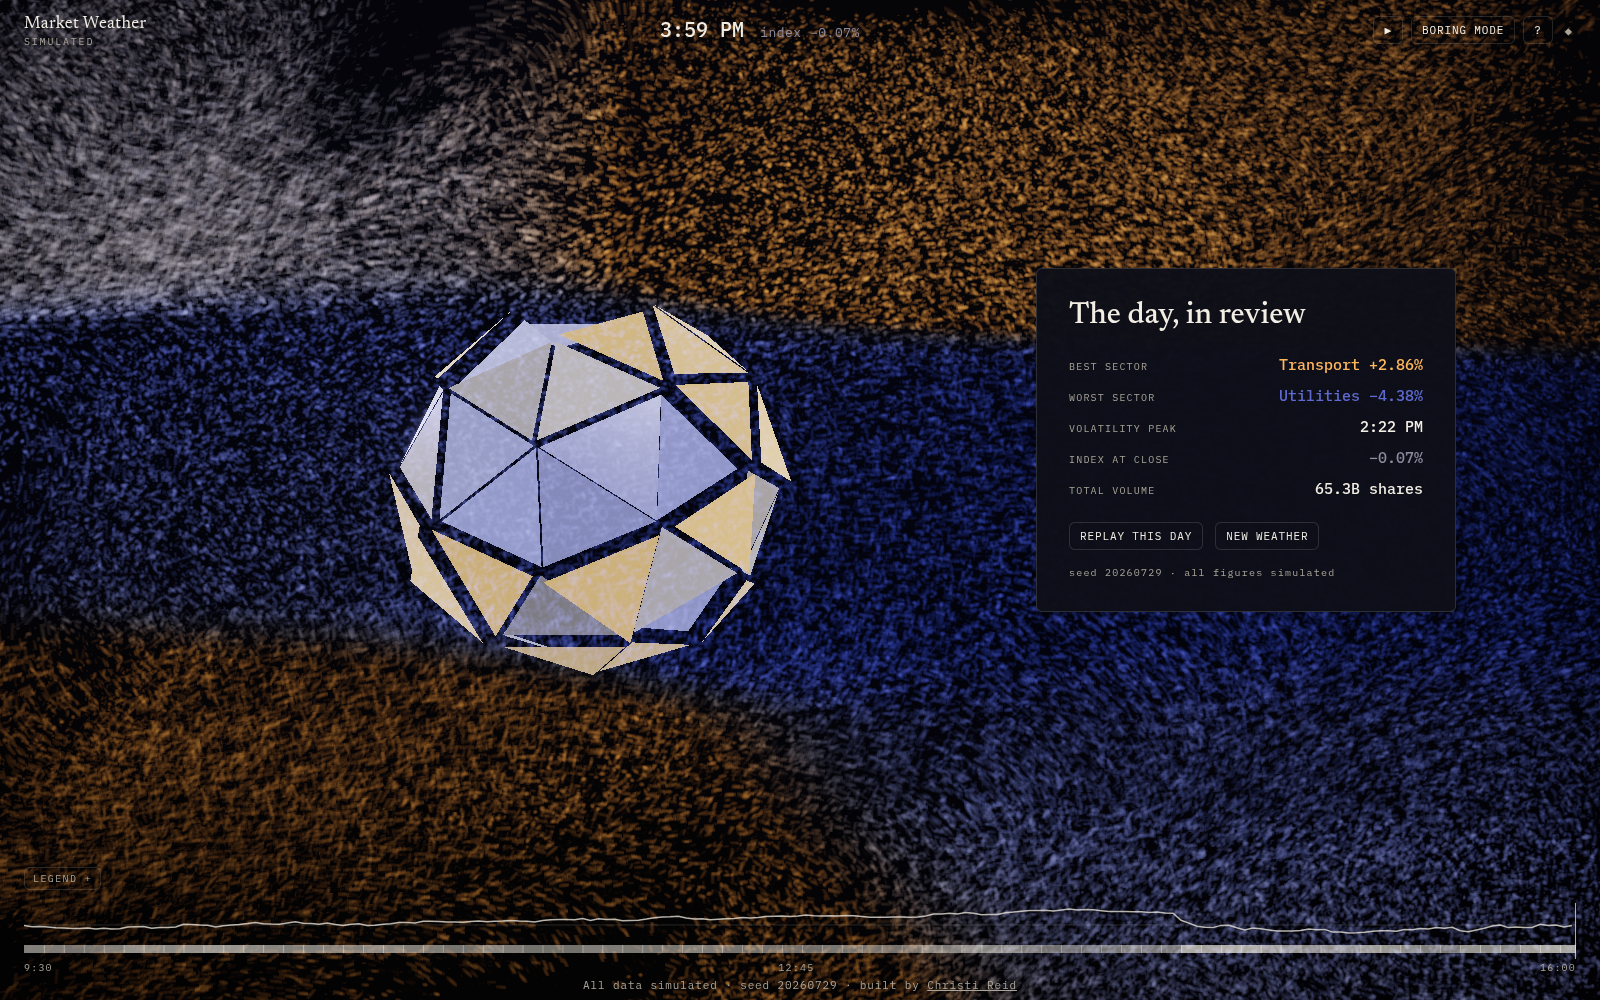
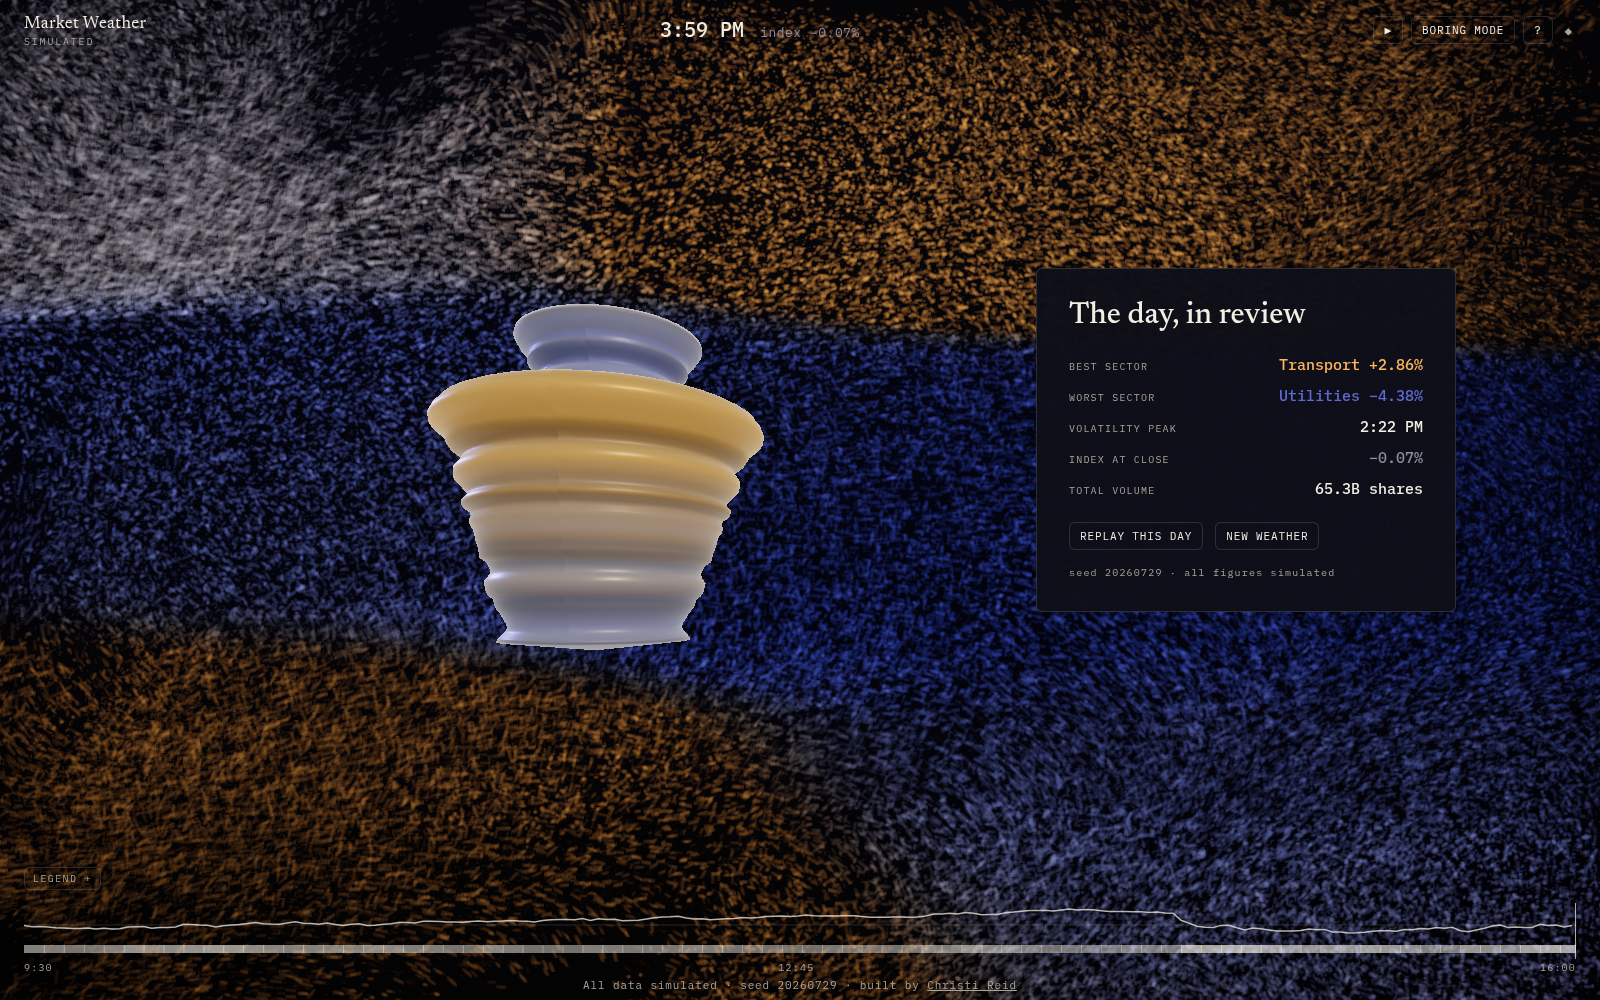
Geometry pass (D-017): the day, turned — lathe of the index path
- LatheGeometry profile = smoothed index path revolved: drawdown chokes the
  silhouette, rally swells it; time runs foot->lip; bands glazed per minute
- smooth turned shading; deeper glaze; grain 3%->1.8% (speckle on glaze)
- atmosphere moved to far-plane depth with depth testing so the vessel
  occludes wind strokes (transparent-pass draw-order bug found by capture)
- ember/fresnel shader carries over via aFacet band phase
- storm/field verified unaffected; smoke green; axe clean x2; 66 tests

Changed region(s): [[0.25, 0.279, 0.5, 0.682]]

diff --git a/apps/weather/src/scene/DayStone.tsx b/apps/weather/src/scene/DayStone.tsx
@@ -1,17 +1,20 @@
 /**
- * Act IV — the day stone. When the market closes, the whole day condenses
- * into one faceted object (the skill-recipe "one strong 3D object" moment):
+ * Act IV — the day, turned. When the market closes, the day condenses into a
+ * vessel whose GEOMETRY is the data (D-015/D-017):
  *
- *   facet displacement  ← that sector's |return since open| at the close
- *   facet color         ← the same return through the OKLab temperature ramp
- *   surface roughness   ← the day's realized vol (vs the canonical reference):
- *                          stormy days cut rougher stones
- *   rotation / bob      ← presentation transform only (virtual-clocked,
- *                          still under prefers-reduced-motion)
+ *   lathe profile   ← the index path itself, revolved — a drawdown is a
+ *                     literal choke in the silhouette, a rally a swelling
+ *   band color      ← index return since open at that minute (OKLab ramp),
+ *                     open at the foot, close at the lip
+ *   surface rough.  ← the day's realized vol (stormy days turn rougher)
+ *   ember shimmer   ← D-016 shader extension, unchanged (vColor + aFacet)
+ *   rotation / bob  ← presentation transform, virtual-clocked, still under
+ *                     prefers-reduced-motion
  *
- * Real geometry (displaced icosahedron, flat-shaded), PBR material, perspective
- * camera, key + hemisphere + rim lights. Every attribute names its channel
- * (D-015) — a different stone for every seed.
+ * Real turned geometry (LatheGeometry from a smoothed 72-point resample of
+ * the 390-minute path, flat-shaded 44-segment revolve), PBR + injected
+ * shaders, perspective camera, key + hemisphere + rim lights. Every seed
+ * turns a different vessel.
  */
 import { useEffect, useMemo } from 'react';
 import { useFrame, useThree } from '@react-three/fiber';
@@ -21,55 +24,67 @@ import { dayFor, useWeather } from '../state/store';
 import { virtualNow } from '../state/clock';
 import { sampleRamp, returnToT } from './ramp';
 
-function buildStoneGeometry(day: MarketDay): THREE.BufferGeometry {
-  const base = new THREE.IcosahedronGeometry(1, 1).toNonIndexed();
-  const pos = base.getAttribute('position');
-  const faceCount = pos.count / 3;
+const PROFILE_POINTS = 72;
+const LATHE_SEGMENTS = 44;
+
+function buildVesselGeometry(day: MarketDay): THREE.BufferGeometry {
+  const path = day.indexPath(); // 390 per-minute index values
+
+  // Resample the day to the profile resolution with a light moving average —
+  // the lathe wants a turnable curve, not minute noise.
+  const resampled: number[] = [];
+  for (let i = 0; i < PROFILE_POINTS; i++) {
+    const center = (i / (PROFILE_POINTS - 1)) * 389;
+    let sum = 0;
+    let n = 0;
+    for (let k = -6; k <= 6; k++) {
+      const t = Math.round(center + k);
+      if (t >= 0 && t <= 389) {
+        sum += path[t] ?? 0;
+        n++;
+      }
+    }
+    resampled.push(sum / Math.max(1, n));
+  }
+  const lo = Math.min(...resampled);
+  const hi = Math.max(...resampled);
+  const span = Math.max(1e-6, hi - lo);
+
+  // Profile: radius carries the index (a drawdown chokes the vessel, a rally
+  // swells it); height carries time, open at the foot → close at the lip.
+  const profile: THREE.Vector2[] = [new THREE.Vector2(0.04, -1.06)];
+  for (let i = 0; i < PROFILE_POINTS; i++) {
+    const r = 0.44 + (((resampled[i] ?? 0) - lo) / span) * 0.62;
+    const y = -1 + (i / (PROFILE_POINTS - 1)) * 2;
+    profile.push(new THREE.Vector2(r, y));
+  }
+  profile.push(new THREE.Vector2(0.04, 1.06)); // close the lip
+
+  const geo = new THREE.LatheGeometry(profile, LATHE_SEGMENTS);
+
+  // Band colors: each profile row is its minute's index return through the
+  // ramp. LatheGeometry UV.y runs along the profile → recover the minute.
+  const pos = geo.getAttribute('position');
+  const uv = geo.getAttribute('uv');
   const colors = new Float32Array(pos.count * 3);
-  const close = day.at(389);
-
-  const a = new THREE.Vector3();
-  const b = new THREE.Vector3();
-  const c = new THREE.Vector3();
-  const n = new THREE.Vector3();
-
-  const centroid = new THREE.Vector3();
-  for (let f = 0; f < faceCount; f++) {
-    const sector = f % 11;
-    const ret = close.sectors[sector]?.returnSinceOpen ?? 0;
-    // Displacement is hairline cleavage, not shrapnel: winners' facets sit a
-    // breath proud, losers' a breath deep — the crack lines catch the rim
-    // light and read as cut mineral.
-    const disp = Math.max(-0.05, Math.min(0.08, ret * 2.6));
-    a.fromBufferAttribute(pos, f * 3);
-    b.fromBufferAttribute(pos, f * 3 + 1);
-    c.fromBufferAttribute(pos, f * 3 + 2);
-    centroid.copy(a).add(b).add(c).divideScalar(3);
-    n.copy(centroid).normalize().multiplyScalar(disp);
-    for (let v = 0; v < 3; v++) {
-      const i = f * 3 + v;
-      // Slight inset toward the facet centroid keeps the silhouette closed.
-      const px = pos.getX(i) + (centroid.x - pos.getX(i)) * 0.06 + n.x;
-      const py = pos.getY(i) + (centroid.y - pos.getY(i)) * 0.06 + n.y;
-      const pz = pos.getZ(i) + (centroid.z - pos.getZ(i)) * 0.06 + n.z;
-      pos.setXYZ(i, px, py, pz);
-    }
-    const [r, g, bl] = sampleRamp(returnToT(ret));
-    for (let v = 0; v < 3; v++) {
-      colors[(f * 3 + v) * 3] = r;
-      colors[(f * 3 + v) * 3 + 1] = g;
-      colors[(f * 3 + v) * 3 + 2] = bl;
-    }
+  const bandIds = new Float32Array(pos.count);
+  const rows = profile.length;
+  for (let i = 0; i < pos.count; i++) {
+    const v = uv.getY(i); // 0 at foot → 1 at lip
+    const row = Math.round(v * (rows - 1));
+    const pi = Math.max(0, Math.min(PROFILE_POINTS - 1, row - 1));
+    const minute = Math.round((pi / (PROFILE_POINTS - 1)) * 389);
+    const [r, g, b] = sampleRamp(returnToT(day.at(minute).index));
+    // Deepen toward a glaze — the ember shader re-lights it from within.
+    colors[i * 3] = Math.pow(r * 0.82, 1.25);
+    colors[i * 3 + 1] = Math.pow(g * 0.82, 1.25);
+    colors[i * 3 + 2] = Math.pow(b * 0.82, 1.25);
+    bandIds[i] = pi / (PROFILE_POINTS - 1); // ember shimmer phase per band
   }
-  base.setAttribute('color', new THREE.BufferAttribute(colors, 3));
-  // Per-facet phase for the ember shimmer (custom shader injection below).
-  const facetIds = new Float32Array(pos.count);
-  for (let f = 0; f < faceCount; f++) {
-    for (let v = 0; v < 3; v++) facetIds[f * 3 + v] = f / faceCount;
-  }
-  base.setAttribute('aFacet', new THREE.BufferAttribute(facetIds, 1));
-  base.computeVertexNormals();
-  return base;
+  geo.setAttribute('color', new THREE.BufferAttribute(colors, 3));
+  geo.setAttribute('aFacet', new THREE.BufferAttribute(bandIds, 1));
+  geo.computeVertexNormals();
+  return geo;
 }
 
 export function DayStone(): React.JSX.Element | null {
@@ -82,9 +97,9 @@ export function DayStone(): React.JSX.Element | null {
   // it floats above the centered panel.
   const narrow = size.width / Math.max(1, size.height) < 1.05;
   const basePos: [number, number, number] = narrow ? [0, 2.05, 0] : [-1.5, 0.1, 0];
-  const scale = narrow ? 0.72 : 1.35;
+  const scale = narrow ? 0.68 : 1.15;
 
-  const geometry = useMemo(() => buildStoneGeometry(day), [day]);
+  const geometry = useMemo(() => buildVesselGeometry(day), [day]);
   useEffect(() => () => geometry.dispose(), [geometry]);
 
   const material = useMemo(() => {
@@ -92,7 +107,7 @@ export function DayStone(): React.JSX.Element | null {
     const peak = Math.min(1.2, classifyDay(day).peakVol);
     const mat = new THREE.MeshStandardMaterial({
       vertexColors: true,
-      flatShading: true,
+      flatShading: false, // turned surface — the silhouette carries the form
       metalness: 0.22,
       roughness: 0.58 - 0.26 * Math.min(1, peak),
       emissive: new THREE.Color('#11131F'),
@@ -165,8 +180,8 @@ export function DayStone(): React.JSX.Element | null {
   return (
     <group>
       {/* Lights live with the stone so the field pays nothing for them. */}
-      <hemisphereLight args={["#F2EEE4", "#0B0C14", 0.35]} />
-      <directionalLight position={[3.4, 4.2, 4.8]} intensity={0.95} color="#FFF4E2" />
+      <hemisphereLight args={["#F2EEE4", "#0B0C14", 0.28]} />
+      <directionalLight position={[3.4, 4.2, 4.8]} intensity={0.75} color="#FFF4E2" />
       <directionalLight position={[-4.2, 1.2, -2.8]} intensity={1.1} color="#7A86E8" />
       <mesh
         name="day-stone"

diff --git a/apps/weather/src/scene/Effects.tsx b/apps/weather/src/scene/Effects.tsx
@@ -39,7 +39,7 @@ export function Effects(): React.JSX.Element | null {
       <Bloom intensity={0.55} luminanceThreshold={0.72} luminanceSmoothing={0.18} mipmapBlur />
       <ToneMapping mode={ToneMappingMode.ACES_FILMIC} />
       <Vignette eskil={false} offset={0.18} darkness={0.42} />
-      <Noise premultiply blendFunction={BlendFunction.ADD} opacity={0.03} />
+      <Noise premultiply blendFunction={BlendFunction.ADD} opacity={0.018} />
     </EffectComposer>
   );
 }

diff --git a/apps/weather/src/scene/particles/shaders.ts b/apps/weather/src/scene/particles/shaders.ts
@@ -258,7 +258,9 @@ void main() {
   vBright *= 1.0 + 0.25 * uStormEmphasis * vol;
 
   vec2 view = (p - uView.yz) * uView.x + 0.5;
-  gl_Position = vec4(view * 2.0 - 1.0, 0.0, 1.0);
+  // Atmosphere sits at the far plane: the only depth-writing object (Act IV's
+  // vessel) occludes it, while the sky (no depth ops) stays beneath.
+  gl_Position = vec4(view * 2.0 - 1.0, 0.9999, 1.0);
   gl_PointSize = size;
 }
 `;

diff --git a/apps/weather/src/scene/Particles.tsx b/apps/weather/src/scene/Particles.tsx
@@ -82,7 +82,8 @@ export function Particles(): React.JSX.Element {
         vertexShader: RENDER_VERT,
         fragmentShader: RENDER_FRAG,
         transparent: true,
-        depthTest: false,
+        // Test (never write) depth so Act IV's vessel occludes the strokes.
+        depthTest: true,
         depthWrite: false,
         blending: THREE.AdditiveBlending,
         uniforms: {

diff --git a/README.md b/README.md
@@ -100,10 +100,13 @@ and building both. Boring Mode doubles as the screen-reader surface and the no-W
 
 ---
 
-## The day ends
+## The day ends — and is turned
 
-At 4:00 PM the field freezes and the day typesets itself. **Replay** runs the same seed again;
-**new weather** draws a fresh non-flat day — every day shareable by URL (`?seed=`).
+At 4:00 PM the field stills, and the day condenses into a **vessel turned from its own chart**:
+the index path revolved on a lathe — the 2:20 drawdown is a literal choke in the silhouette,
+the recovery flares the lip, and the bands are glazed by each minute's return. Stormy days turn
+rougher, harder-smoldering vessels. **Replay** runs the same seed; **new weather** turns a new
+one — every day shareable by URL (`?seed=`).
 
 ![Act IV — the day in review](docs/screenshots/loop-b/review-high-desktop.png)
 
@@ -144,7 +147,7 @@ velocity, length growing with local speed, comet-shaded so the bright head shows
 the sector is moving even in a paused frame — calm air is fine grain, a squall is combed into
 long ragged filaments. Size and gate come from volume, color from the OKLab temperature ramp
 LUT, depth-layered parallax from three drift layers — all under a strict post budget: bloom
-(high threshold), ACES, 3% grain, vignette. Scrubs re-seed positions from
+(high threshold), ACES, fine grain, vignette. Scrubs re-seed positions from
 `hash(seed, minute)` and warm up 90 fixed steps, so minute *t* is the same sky no matter how
 you got there. The whole day runs on one injected virtual clock — no wall-clock reads
 anywhere a capture could see.

diff --git a/docs/decisions-log.md b/docs/decisions-log.md
@@ -187,3 +187,20 @@ the facet's own return color; ember strength = day vol (stormy stones smolder
 harder); rim = presentation lighting. Shimmer freezes under reduced motion.
 Diffuse lighting was rebalanced downward so the internal glow, not the lamps,
 carries the color.
+
+### D-017 · The day, turned (vessel geometry)
+
+The Act IV object's geometry is now derived from the data rather than
+decorated by it: a LatheGeometry whose profile IS the index path — a smoothed
+72-point resample revolved in 44 segments, radius carrying the index (a
+drawdown is a literal choke in the silhouette, a rally a swelling), height
+carrying time from open (foot) to close (lip). Band vertex colors are each
+minute's index return through the shared ramp; the D-016 ember/fresnel shader
+carries over unchanged (aFacet reused as band phase). Two finish passes:
+smooth shading replaced flat (the lathe's flat rows read as stacked bowls),
+and the film grain dropped 3% → 1.8% (premultiply grain over a bright glaze
+read as speckle; the wind strokes now carry the field's texture, so banding
+risk is low). One rendering bug found by eye: R3F draws transparent points
+after opaque meshes, so the wind strokes speckled OVER the vessel — fixed by
+placing the atmosphere at far-plane depth and letting it depth-test against
+the vessel (the scene's only depth writer).

diff --git a/docs/critique-log.md b/docs/critique-log.md
@@ -131,3 +131,16 @@ facet inset — closed silhouette, crack lines catching the violet rim light,
 amber winner-facets against the neutral flats of a near-flat close. Desktop:
 stone left, summary right; narrow screens float it above the panel. Verified
 across tiers/sizes; smoke and axe re-run green (×2).
+
+### Pass 13 — the day, turned (geometry pass)
+
+The icosahedron's f%11 facet mapping was the object's weakest link —
+decoration, not derivation. Replaced with the lathe-of-the-index (D-017):
+the vessel's silhouette IS the day's chart, revolved. 13a: flat-shaded lathe
+rows read as stacked cream bowls — switched to smooth shading, deepened the
+glaze, strengthened the choke (radius 0.44–1.06). 13b: white speckle over the
+glaze traced to transparent-pass wind strokes drawing over the opaque vessel —
+atmosphere moved to far-plane depth with depth testing; grain 3% → 1.8%.
+Result: turned porcelain wearing the day — amber morning swell, ribbed
+midday, the 2:20 choke, pale flat close. Storm/field states verified
+unaffected.
